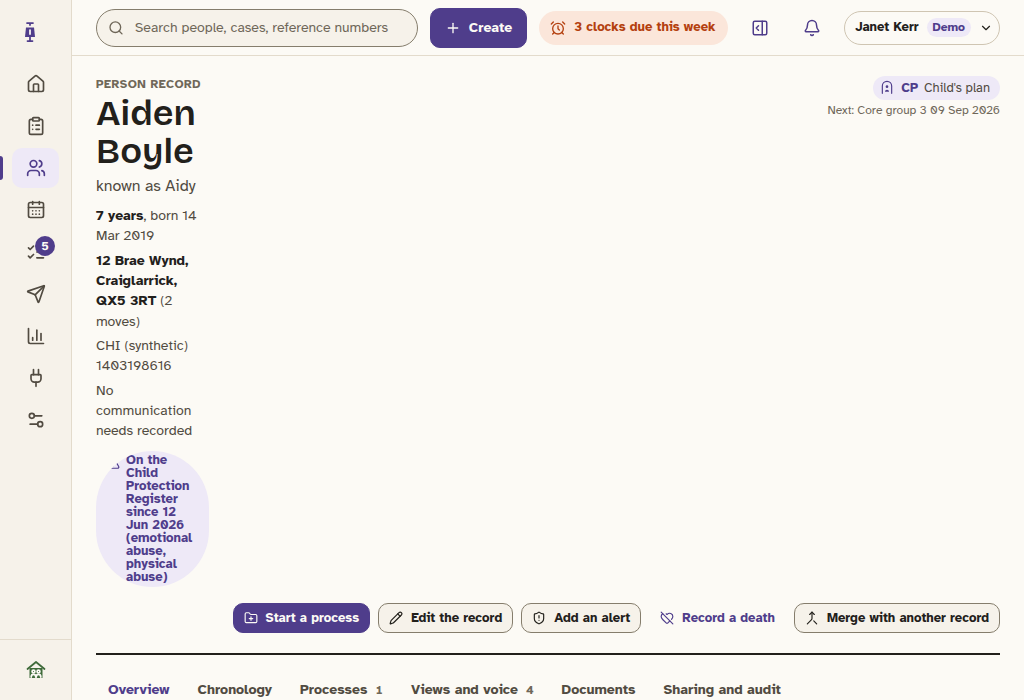
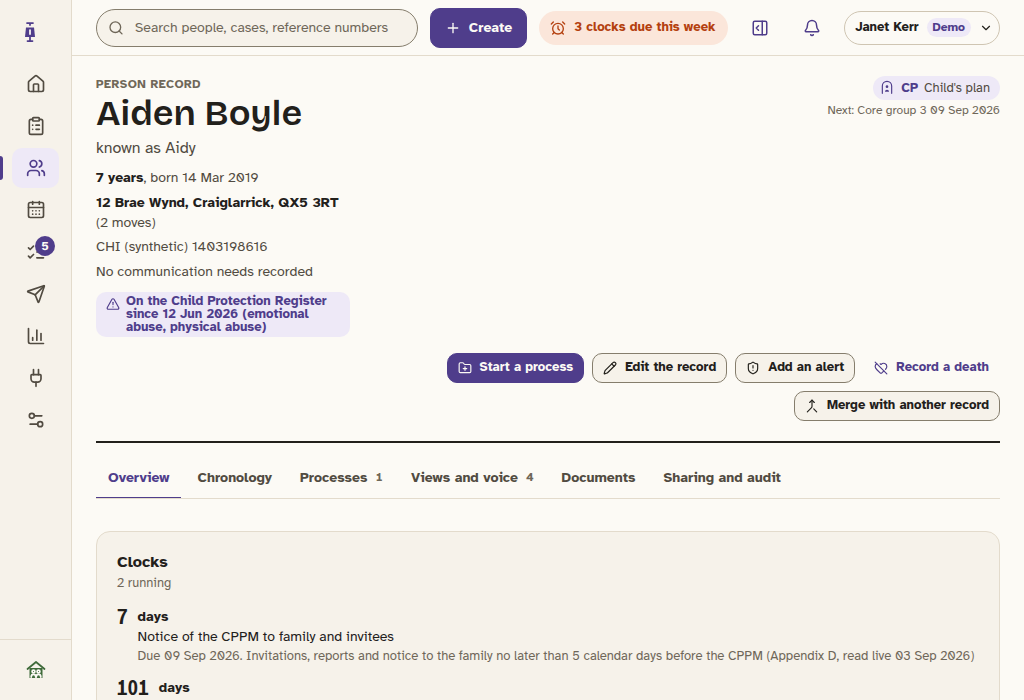
fix(layout): the record header keeps its identity column, and a wrapping pill never clips
The person record's header collapsed below 1280: the identity column
was minmax(0, 1fr) and the record actions row was pinned to column 2,
so the auto column took the width of five buttons and the name, address
and CHI were left with 60px, one word per line, while the register
alert pill was sliced mid-word. The layout suite passed, because its
truncation check looked only at leaf elements and a pill with an icon
is not one.

The identity column now holds at least 28ch, the header stacks to one
column in narrow with the actions row back in it, and the process
record header, which has the same shape, gets the same rule. A pill in
wrap mode hides nothing: a long word breaks inside the box and the
corners soften so two lines read as a notice. layout.spec.ts asserts
both headers and every pill and process mark in them at 1440, 1280,
1024 and 900, catching a grid child narrower than 20ch with wrapped
text and any text outside a pill's box. D-096 corrected, D-200
recorded, the layout round recaptured.

Claude-Session: https://claude.ai/code/session_01FKeMmPt1Xxg5XsbCUvgkkp

diff --git a/apps/web/e2e/layout.spec.ts b/apps/web/e2e/layout.spec.ts
@@ -177,6 +177,86 @@ test.describe('truncation', () => {
   }
 });
 
+/**
+ * The header holds its width, and the pills in it are never sliced.
+ *
+ * The truncation check above looks at leaf elements, and a pill with an icon is not a leaf: the
+ * person record's register alert was rendering "On t / Child / Prote / Regis" in a 100px column at
+ * 1024 and 900 and the suite passed. The identity column had collapsed to its longest word while the
+ * badge column took what its next-date text asked for. So this asserts the two things that failure
+ * needs: a grid child narrower than 20ch carrying wrapped text, and a pill or badge whose text
+ * reaches past its own box. At all four widths, on both two-column headers.
+ */
+test.describe('the header holds its width', () => {
+  const HEADERS = [
+    { name: 'person', user: 'usr_janet_kerr', path: '/people/per_aiden_boyle', header: 'person-header' },
+    { name: 'process', user: 'usr_moira_gilmour', path: '/processes/prc_asp_marion', header: 'process-header' },
+  ] as const;
+
+  for (const { w, h } of [MODES[2], MODES[3], MODES[5], MODES[6]] as const) {
+    for (const screen of HEADERS) {
+      test(`${screen.name} header at ${w}: the identity column keeps 28ch and nothing in a pill is sliced`, async ({ page }) => {
+        await page.setViewportSize({ width: w, height: h });
+        await open(page, screen);
+        const result = await page.evaluate((testId) => {
+          const header = document.querySelector<HTMLElement>(`[data-testid="${testId}"]`)!;
+          const identity = header.firstElementChild as HTMLElement;
+          // `ch` measured in the header's own font rather than assumed: a probe of twenty zeros.
+          const chars = (el: HTMLElement, n: number) => {
+            const probe = document.createElement('span');
+            probe.textContent = '0'.repeat(n);
+            probe.style.cssText = 'position:absolute;visibility:hidden;white-space:nowrap';
+            el.appendChild(probe);
+            const width = probe.getBoundingClientRect().width;
+            probe.remove();
+            return width;
+          };
+          const headerWidth = header.getBoundingClientRect().width;
+          const identityWidth = identity.getBoundingClientRect().width;
+          const floor = Math.min(chars(identity, 28), headerWidth);
+
+          // A grid child narrower than 20ch whose text has wrapped is the collapse, whatever its
+          // scrollWidth says: wrapped text never overflows sideways, it just becomes unreadable.
+          const squeezed: string[] = [];
+          for (const child of Array.from(header.children) as HTMLElement[]) {
+            const box = child.getBoundingClientRect();
+            if (box.width === 0 || (child.textContent ?? '').trim().length === 0) continue;
+            const lineHeight = parseFloat(getComputedStyle(child).lineHeight) || parseFloat(getComputedStyle(child).fontSize) * 1.4;
+            if (box.width < chars(child, 20) && child.scrollHeight > lineHeight * 2) squeezed.push(`${child.tagName}.${String(child.className).split(' ')[0]} at ${Math.round(box.width)}px`);
+          }
+
+          // Every pill and every process mark in the header: no text past the box, in either axis.
+          const sliced: string[] = [];
+          for (const el of Array.from(header.querySelectorAll<HTMLElement>('span[data-tone][data-size], [data-mark="process"]'))) {
+            const box = el.getBoundingClientRect();
+            if (box.width === 0) continue;
+            if (el.scrollWidth > el.clientWidth + 1 || el.scrollHeight > el.clientHeight + 1) {
+              sliced.push(`${(el.textContent ?? '').trim().slice(0, 40)} (overflows its box)`);
+              continue;
+            }
+            const walker = document.createTreeWalker(el, NodeFilter.SHOW_TEXT);
+            let node = walker.nextNode();
+            while (node) {
+              const range = document.createRange();
+              range.selectNodeContents(node);
+              for (const rect of Array.from(range.getClientRects())) {
+                if (rect.width === 0) continue;
+                if (rect.right > box.right + 1 || rect.left < box.left - 1) sliced.push(`${(node.textContent ?? '').trim().slice(0, 40)} (text outside the pill)`);
+              }
+              node = walker.nextNode();
+            }
+          }
+          return { headerWidth, identityWidth, floor, squeezed, sliced: [...new Set(sliced)] };
+        }, screen.header);
+
+        expect(result.identityWidth, `the identity column is ${Math.round(result.identityWidth)}px in a ${Math.round(result.headerWidth)}px header`).toBeGreaterThanOrEqual(result.floor - 1);
+        expect(result.squeezed, 'a header column narrower than 20ch with its text wrapped inside it').toEqual([]);
+        expect(result.sliced, 'a pill or badge whose text is cut off by its own box').toEqual([]);
+      });
+    }
+  }
+});
+
 test.describe('the chrome as panels', () => {
   test.use({ viewport: { width: 900, height: 700 } });
 

diff --git a/apps/web/features/person/PersonRecord.module.css b/apps/web/features/person/PersonRecord.module.css
@@ -2,7 +2,15 @@
   --header-gap: 12px;
 
   display: grid;
-  grid-template-columns: minmax(0, 1fr) auto;
+
+  /*
+   * The identity column holds at least 28ch. With `minmax(0, 1fr)` it could shrink to the longest
+   * unbreakable word while the second column took what its widest occupant asked for, and the
+   * widest occupant was the record actions row pinned to column 2: five buttons at their full width
+   * left a 60px identity column reading "communication" one word per line, with the rest of the
+   * header empty. Below compact the header stacks and the actions row comes back to column 1 (D-200).
+   */
+  grid-template-columns: minmax(min(28ch, 100%), 1fr) auto;
   gap: var(--header-gap) var(--content-gutter);
   align-items: start;
   margin-bottom: var(--density-gap);
@@ -65,6 +73,29 @@
   flex-direction: column;
   gap: 6px;
   align-items: flex-end;
+}
+
+.badge {
+  text-align: right;
+}
+
+:root[data-layout='narrow'] .header {
+  grid-template-columns: minmax(0, 1fr);
+}
+
+:root[data-layout='narrow'] .badges {
+  gap: 8px 18px;
+  align-items: flex-start;
+  flex-flow: row wrap;
+}
+
+:root[data-layout='narrow'] .badge {
+  text-align: left;
+}
+
+:root[data-layout='narrow'] .recordActions {
+  grid-column: 1;
+  justify-content: flex-start;
 }
 
 .badgeNext {

diff --git a/apps/web/features/person/PersonRecord.tsx b/apps/web/features/person/PersonRecord.tsx
@@ -189,8 +189,8 @@ export function PersonRecord({ personId }: { personId: string }) {
 
   return (
     <div className="page">
-      <header className={styles.header}>
-        <div>
+      <header className={styles.header} data-testid="person-header">
+        <div data-testid="person-identity">
           <p className={styles.kicker}>{t('person.screenName')}</p>
           <div className={styles.nameRow}>
             <h1 className={styles.name}>{fullName(person)}</h1>
@@ -249,7 +249,7 @@ export function PersonRecord({ personId }: { personId: string }) {
                 </Pill>
               );
             return (
-              <span key={p.id} style={{ textAlign: 'right' }}>
+              <span key={p.id} className={styles.badge}>
                 <AppLink href={processPath(p.id)} style={{ textDecoration: 'none' }}>
                   <ProcessMark type={p.type} stage={stageLabel(p.type, p.stage)} restricted={p.accessRestriction === 'restricted'} />
                 </AppLink>

diff --git a/packages/ui/src/primitives/Pill.module.css b/packages/ui/src/primitives/Pill.module.css
@@ -26,14 +26,22 @@
   border-radius: var(--radius-pill);
 }
 
-/* A sentence in a pill: wraps, grows, and keeps its icon beside the first line. */
+/*
+ * A sentence in a pill: wraps, grows, and keeps its icon beside the first line. Once it can wrap it
+ * is a block rather than a chip: nothing is clipped, a word wider than the box breaks rather than
+ * escaping, and the corners soften so two lines read as a notice and not a squashed label.
+ */
 .pill[data-wrap='true'] {
   align-items: flex-start;
   height: auto;
   min-height: var(--pill-height);
   padding-block: 3px;
+  overflow: visible;
   text-align: start;
+  text-overflow: clip;
   white-space: normal;
+  border-radius: var(--radius-md);
+  overflow-wrap: anywhere;
 }
 
 .pill[data-wrap='true'] > svg {

diff --git a/packages/ui/src/primitives/Marks.tsx b/packages/ui/src/primitives/Marks.tsx
@@ -51,7 +51,7 @@ export interface ProcessMarkProps {
 export function ProcessMark({ type, stage, restricted = false, className, glyphSize = 16 }: ProcessMarkProps) {
   const GlyphComponent = PROCESS_GLYPHS[type];
   return (
-    <span className={cn(styles.process, className)} data-restricted={restricted ? 'true' : undefined}>
+    <span className={cn(styles.process, className)} data-mark="process" data-restricted={restricted ? 'true' : undefined}>
       <GlyphComponent size={glyphSize} variant="filled" />
       <span>{processShort(type)}</span>
       {stage ? <span className={styles.processStage}>{stage}</span> : null}

diff --git a/apps/web/features/process/ProcessScreen.tsx b/apps/web/features/process/ProcessScreen.tsx
@@ -120,7 +120,7 @@ export function ProcessScreen({ processId }: { processId: string }) {
   const state = dev ?? (access.level === 'none' ? 'restricted' : 'ready');
 
   const header = (
-    <header className={styles.head}>
+    <header className={styles.head} data-testid="process-header">
       <div>
         <div className={styles.ref}>
           <ProcessMark type={process.type} stage={stageLabel(process.type, process.stage)} restricted={process.accessRestriction === 'restricted'} />

diff --git a/apps/web/features/process/ProcessScreen.module.css b/apps/web/features/process/ProcessScreen.module.css
@@ -1,9 +1,15 @@
 .head {
   display: grid;
-  grid-template-columns: minmax(0, 1fr) auto;
+
+  /* The same two-column header as the person record, and the same floor on the identity column (D-200). */
+  grid-template-columns: minmax(min(28ch, 100%), 1fr) auto;
   gap: 10px var(--content-gutter);
   align-items: start;
   margin-bottom: var(--density-gap);
+}
+
+:root[data-layout='narrow'] .head {
+  grid-template-columns: minmax(0, 1fr);
 }
 
 .ref {

diff --git a/docs/DECISIONS.md b/docs/DECISIONS.md
@@ -118,7 +118,7 @@ One line of rationale each. Newest at the bottom. Prefix D-nnn. Domain decisions
 - D-093 The rail's icon state below 1280 is not a preference. Above it, a person can collapse the rail by hand and that is persisted. Below it, the icon rail is the only thing that fits, so the toggle is not rendered rather than being rendered and ignored, and `RailContents` takes a `compact` flag that changes what is in the markup rather than only how wide it is: the labels leave the link's accessible name and return as a title, the badge moves to the corner of the icon, the brand becomes the glyph. Below 1024 both side columns leave the page entirely and return as panels reached from the top bar, which is what carries WCAG 2.2 1.4.10: a 1280px viewport at 400 percent zoom is a 320px one, and 72px of icon rail is a fifth of it.
 - D-094 The overlay rail and the overlay drawer are the dialog primitive, not a second overlay implementation. Both needed the same four things from the platform, the top layer, focus trapped inside, Escape and the page behind held still, and all four already existed in `Dialog` with a regression suite behind them. So `Dialog` gained a `placement` of `inline-start` or `inline-end`, which replaces the centring margin rather than removing it: `margin-inline: auto 0` against two zero insets pushes the panel to the end edge and keeps the block margins at `auto`, so nothing about it reintroduces the zero margin the compiled-CSS guard exists to catch. The drawer's content is computed by one hook and rendered by both shapes, because a need-to-know answer that differed between the docked column and the panel would be a second implementation of the access rules.
 - D-095 Panels respond to the record's width, not the window's. `.app-content` is a size container named `record`, and the layouts inside query it. The record is 872px at 1440 with both side columns, 952px at 1024 with one, and 1312px at 1920: the number that decides whether two columns fit is the record's and the window's does not predict it. This is also what fixed the process record at 400 percent zoom, where the two column layout was collapsing correctly and the single column was still 453px wide, because a grid item's `min-width` defaults to `auto` and the full-width row's min-content was setting the track for everything above it.
-- D-096 Text may wrap or it may truncate visibly, and nothing else. Wrapping is the default and is required for anything carrying a sentence; a person record's staff safety alert is the case that decides it, because "do not visit alone" with the reason truncated is worse than the untruncated version being long. Truncation is for identifiers in tight rows and must show an ellipsis and keep the full string reachable in a `title` or an accessible name. The third thing, text sliced off with no ellipsis, is forbidden because it looks like the text ended there. `Pill` enforces its half in the primitive: capped at its container's width and ellipsised, because a pill wider than the thing it sits in is a design error at that spot rather than something the layout should absorb, and one on the process record was 453px inside a 320px column and took the page sideways with it. A pill that genuinely carries a sentence asks for `wrap` and grows downwards instead. The policy is asserted on five screens rather than described in a document nobody re-reads.
+- D-096 Text may wrap or it may truncate visibly, and nothing else. Wrapping is the default and is required for anything carrying a sentence; a person record's staff safety alert is the case that decides it, because "do not visit alone" with the reason truncated is worse than the untruncated version being long. Truncation is for identifiers in tight rows and must show an ellipsis and keep the full string reachable in a `title` or an accessible name. The third thing, text sliced off with no ellipsis, is forbidden because it looks like the text ended there. `Pill` enforces its half in the primitive: capped at its container's width and ellipsised, because a pill wider than the thing it sits in is a design error at that spot rather than something the layout should absorb, and one on the process record was 453px inside a 320px column and took the page sideways with it. A pill that genuinely carries a sentence asks for `wrap` and grows downwards instead. The policy is asserted on five screens rather than described in a document nobody re-reads. Corrected on 04 Sep 2026: the five screens were not the person record header, and the check looked only at leaf elements, so a pill with an icon in it was never examined. The person record's register alert rendered "On t / Child / Prote / Regis" at 1024 and 900 in a column that had collapsed to 60px, and the suite passed. `Pill` in wrap mode no longer clips at all (overflow visible, a long word breaks inside the box, soft corners so two lines read as a notice), and `layout.spec.ts` asserts the two-column headers and every pill and process mark in them at all four widths, catching a grid child narrower than 20ch with wrapped text as well as text outside a pill's box (D-200).
 - D-097 A link the reader is not entitled to follow looks exactly like one they are. That is the whole point, and it is the opposite of what most systems do. A link that is styled differently, greyed out or absent when the reader has no access tells them something about the record before they have asked for it, and it leaves no audit entry because nothing happened: the reader learns "there is something here I cannot see" for free and without a record of having learned it. So `PersonLink` renders the same anchor either way, and following it lands on the presence-only state, which says a record exists, that this reader may not read it, and how to ask, and that read is audited. The difference between a system that refuses and a system that hides is that only the first can be inspected afterwards.
 - D-098 An excluded party is never a link. Where a case is in scope and the exclusion register names the person for its type and stage, the name renders marked and not clickable, with the party role after it for a screen reader. A link would put a route into their record next to the sentence saying they must not be given one, which is an invitation misfiled as a convenience. The decision lives in `PersonLink` and reads the register, rather than each screen deciding for itself: the MARAC referral panel had been rendering the perpetrator as a link beside a "must not receive anything about this process" pill since it was written, and that is precisely the failure a rule enforced in one place prevents from recurring on the next screen somebody writes.
 - D-099 Practitioners have a card, at `/practitioners/<id>`. Every field on it was already in the seed and none of them had a screen: a colleague appeared as a name beside a case role and nothing else, so "who is the MHO on this and can I ring them" was answered by scrolling a members list and then not answered at all. That is the wrong gap for a multi-agency product to have, because the other agency's worker is the person you actually need. The card's case list is filtered by the reader's own access rather than the practitioner's, and says how many cases it is not showing: a card that listed every case a colleague holds would be a way round need-to-know that took one click.
@@ -223,3 +223,4 @@ One line of rationale each. Newest at the bottom. Prefix D-nnn. Domain decisions
 - D-197 The holiday lists moved out of Admin, Defaults into an Admin, Calendar section of their own. Three lists that compose, a twelve month combined view and a working-day calculator do not belong in a page of miscellaneous settings, and the calculator is the reason the screen earns its place: a sceptical practitioner will test the product against a deadline they already know, and a calculator that shows which days it skipped and why is either convincing or wrong in a way somebody can point at. It calls the same function the clocks call, so it cannot agree with something the product does not do.
 - D-198 The pipeline expresses everything the migrated call sites had been doing by hand, rather than the call sites keeping any of it. It writes the lawful basis from a purpose and a necessity (`lawfulBasisFor`: one rule for the article 6, 9 and 10 conditions and the statutory gateway, where three screens had carried drifting copies), writes sharing records at each recipient's detail level with the classification captured at that moment, completes clocks as well as starting them (`clockTransition`: a meeting names its type and the transition table decides, a distributed minute names the rule it completes), derives whether the audit entry is restricted from the case, takes a pre-allocated audit id so a classification override can cite its own entry, lets the one deliberate lower through under its own act, and notices a hand-recorded register entry being added and runs the exclusion check in reverse against every name already on a list for the case, ledgering the update and any resemblance. Small meeting changes are writes too: an attendance mark or an agenda item moved on now carries a ledger line and a version entry, where the old direct upsert carried nothing.
 - D-199 A connector delivering what a source system said is the other writer, and it is not a person's write. `store.receive` is the delivery path for connector events and inbound changes: the schema check and de-duplication on the far side's own reference, no audit entry, no version, no clock and no milestone, because those belong to the review that promotes, accepts or dismisses the item, which is a `write`. It is the only other caller of the private `upsert`, and the simulator, the inbox pull and the connector sync all go through it.
+- D-200 A two-column record header keeps at least 28ch for the identity column, and below compact it stacks to one. The person record's header was `minmax(0, 1fr) auto` with the record actions row pinned to column 2, so the auto column took the width of five buttons and the identity column took what was left, which at 900 was 60px. The floor is `minmax(min(28ch, 100%), 1fr)`, the narrow mode is one column with the actions row back in it, and the process record header, which has the same shape, gets the same rule. The meeting workspace header is a wrapping flex row and the practitioner card already stacks under a container query, so neither needed it.

diff --git a/docs/NOTES.md b/docs/NOTES.md
@@ -440,3 +440,9 @@ What is right and stays: no credential field, because a password box that accept
 - Small meeting changes are writes. An attendance mark, an agenda item moved on, a pack item ticked: each now carries a ledger line and a version entry naming what changed, where the direct upsert carried nothing. The ledger is longer for it, and that is the right direction to be wrong in.
 - Making `upsert` private was the only fix that would hold, and the walker test is what makes it hold against the next person who reaches for it. Nothing removes, it turned out: the old `remove` had no callers at all, because a casework record is retired or recorded in error and never deleted. It is gone.
 - The flows and phase 4 specs passed unchanged after the migration, which was its own finding: their assertions had never looked at the consequences of a write. The three-point test now asserts its milestone and its ledger line, and the distributed minute asserts its sharing record and both of the meeting's ledger lines, so the next regression of this kind fails a test rather than a review.
+
+## The header that folded, and the check that could not see it (04 Sep 2026)
+
+- The review had the symptom right and the cause nearly right. The identity column was collapsing to its longest word, but not because the badge text was wide: the record actions row is pinned to column 2, under the badges, and five buttons at full width is what the auto column was asking for. At 1024 the identity got 100px, at 900 it got 60px, and the one-column narrow rule made no difference at all because a child pinned to column 2 creates that column whatever the template says. Worth writing down because it is the kind of bug a template change looks like it fixes and does not.
+- The truncation check had a blind spot with a shape. It only looked at leaf elements, on the reasonable theory that a container's scrollWidth says nothing about text; a pill with an icon is a container. So the register alert was sliced mid-word on two of the four widths in the layout round's own captures and nothing failed. The new assertion looks at the header's grid children and at every pill and mark inside them, and measures ch in the element's own font rather than assuming a number.
+- Tried and rejected: a pill that stays a pill when it wraps. Once it can be two lines tall the fully rounded ends make it look squashed, and the overflow hiding that kept it tidy on one line was the thing slicing words on two. So a wrapping pill is a block with soft corners and nothing hidden.
